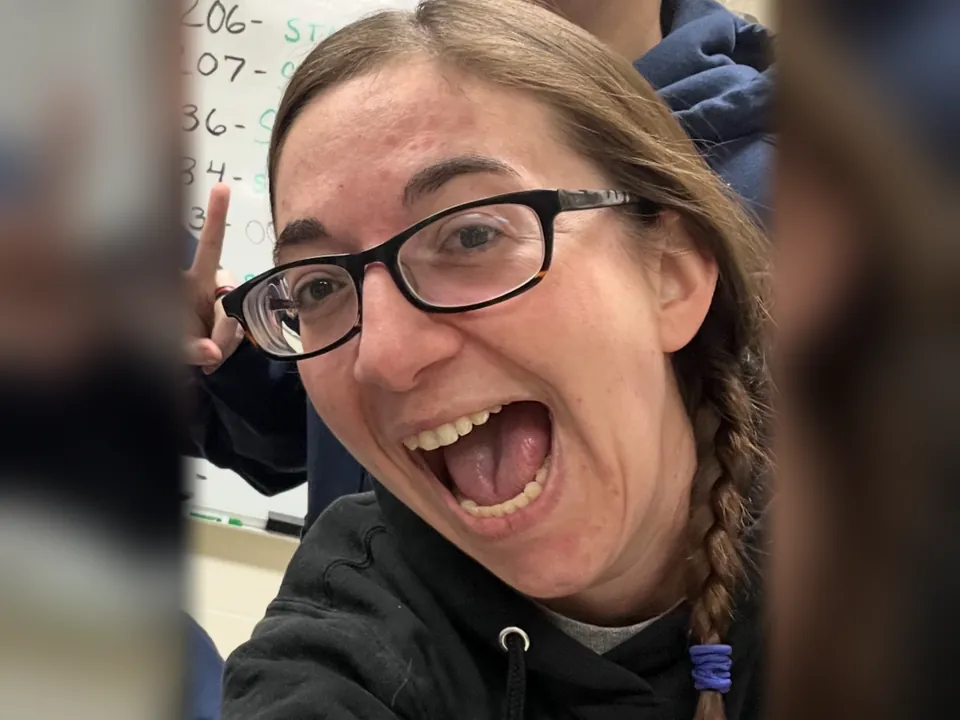
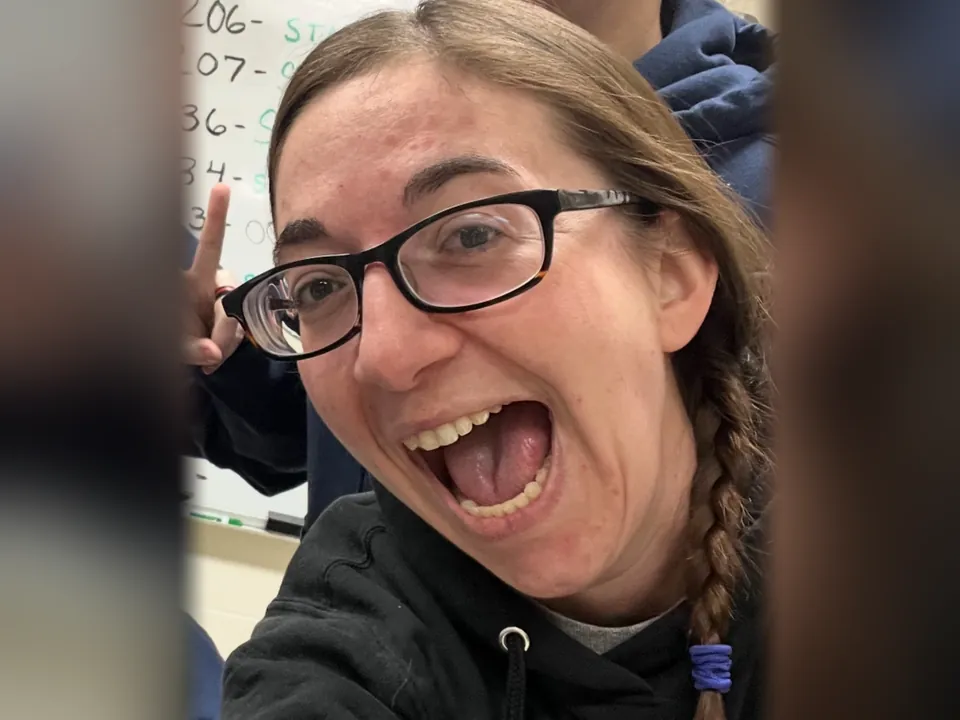
Heavier side blur and slimmer board cards

diff --git a/index.html b/index.html
@@ -8,7 +8,7 @@
   <link rel="shortcut icon" href="favicon.ico"/>
   <link href="https://fonts.googleapis.com/css2?family=Bebas+Neue&family=DM+Sans:ital,wght@0,300;0,400;0,500;0,600;1,300&family=DM+Serif+Display:ital@0;1&family=Cinzel+Decorative:wght@700&display=swap" rel="stylesheet"/>
   <link rel="stylesheet" href="css/base.css"/>
-  <link rel="stylesheet" href="css/styles.css?v=20260927c"/>
+  <link rel="stylesheet" href="css/styles.css?v=20260927d"/>
 
   <!-- Link preview, for when the site is shared on Facebook and the like.
        Without these a shared link shows a blank card with no image. The
@@ -303,9 +303,9 @@
     <div class="eyebrow">Leadership</div>
     <h2 class="section-heading">Board of <em>Directors</em></h2>
     <div class="board-grid">
-      <div class="board-card board-card--photo reveal"><div class="board-photo"><img src="images/board-libby-wide.webp?v=3" alt="Libby Benjamin" width="960" height="720" loading="lazy"></div><div class="board-info"><div class="board-name">Libby Benjamin</div><div class="board-role">President</div></div></div>
-      <div class="board-card board-card--photo reveal"><div class="board-photo"><img src="images/board-dan-wide.webp?v=3" alt="Dan Rypkowski" width="960" height="720" loading="lazy"></div><div class="board-info"><div class="board-name">Dan Rypkowski</div><div class="board-role">Vice President</div></div></div>
-      <div class="board-card board-card--photo reveal"><div class="board-photo"><img src="images/board-kenneth-wide.webp?v=3" alt="Kenneth Gibson" width="960" height="720" loading="lazy"></div><div class="board-info"><div class="board-name">Kenneth Gibson</div><div class="board-role">Secretary / Treasurer</div></div></div>
+      <div class="board-card board-card--photo reveal"><div class="board-photo"><img src="images/board-libby-wide.webp?v=4" alt="Libby Benjamin" width="960" height="720" loading="lazy"></div><div class="board-info"><div class="board-name">Libby Benjamin</div><div class="board-role">President</div></div></div>
+      <div class="board-card board-card--photo reveal"><div class="board-photo"><img src="images/board-dan-wide.webp?v=4" alt="Dan Rypkowski" width="960" height="720" loading="lazy"></div><div class="board-info"><div class="board-name">Dan Rypkowski</div><div class="board-role">Vice President</div></div></div>
+      <div class="board-card board-card--photo reveal"><div class="board-photo"><img src="images/board-kenneth-wide.webp?v=4" alt="Kenneth Gibson" width="960" height="720" loading="lazy"></div><div class="board-info"><div class="board-name">Kenneth Gibson</div><div class="board-role">Secretary / Treasurer</div></div></div>
     </div>
   </div>
 </section>

diff --git a/css/styles.css b/css/styles.css
@@ -244,7 +244,7 @@
 
     /* BOARD */
     #board { background: var(--bg-mid); }
-    .board-grid { display: grid; grid-template-columns: repeat(3, 1fr); gap: 1.5rem; margin-top: 3rem; }
+    .board-grid { display: grid; grid-template-columns: repeat(3, 1fr); gap: 1.5rem; margin: 3rem auto 0; max-width: 960px; }
     .board-card { background: var(--bg-card); border: 1px solid var(--border); border-radius: 12px; padding: 2rem; text-align: center; transition: border-color 0.2s, transform 0.2s; }
     .board-card:hover { border-color: rgba(232,58,47,0.3); transform: translateY(-3px); }
     .board-avatar { width: 64px; height: 64px; border-radius: 50%; background: linear-gradient(135deg, rgba(232,58,47,0.25), rgba(240,112,48,0.15)); border: 1px solid rgba(232,58,47,0.25); display: flex; align-items: center; justify-content: center; font-size: 1.6rem; margin: 0 auto 1.25rem; }
@@ -252,7 +252,7 @@
        fade at the bottom. The vignette is an overlay rather than baked into
        the image, so replacing a photo only means dropping in a new 4:3 file. */
     .board-card--photo { padding: 0; overflow: hidden; position: relative; }
-    .board-photo { position: relative; aspect-ratio: 4 / 3; }
+    .board-photo { position: relative; aspect-ratio: 6 / 5; }
     .board-photo img { width: 100%; height: 100%; object-fit: cover; display: block; transition: transform 0.5s ease; }
     .board-card--photo:hover .board-photo img { transform: scale(1.04); }
     .board-photo::after { content: ''; position: absolute; inset: 0; pointer-events: none;
